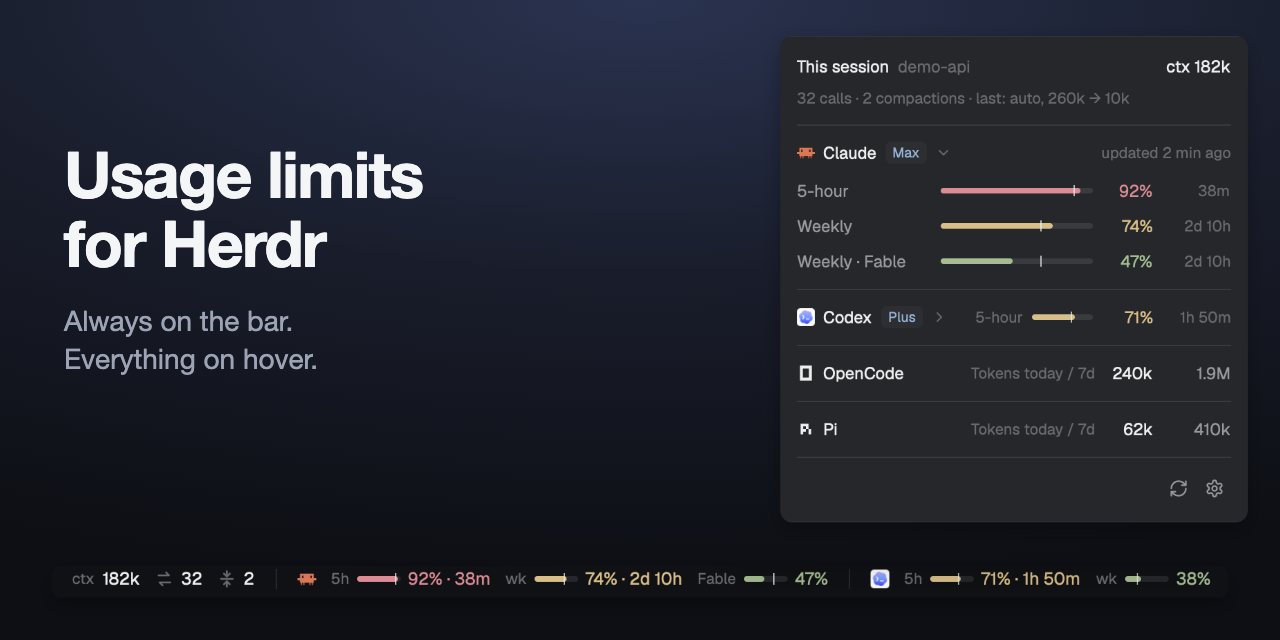
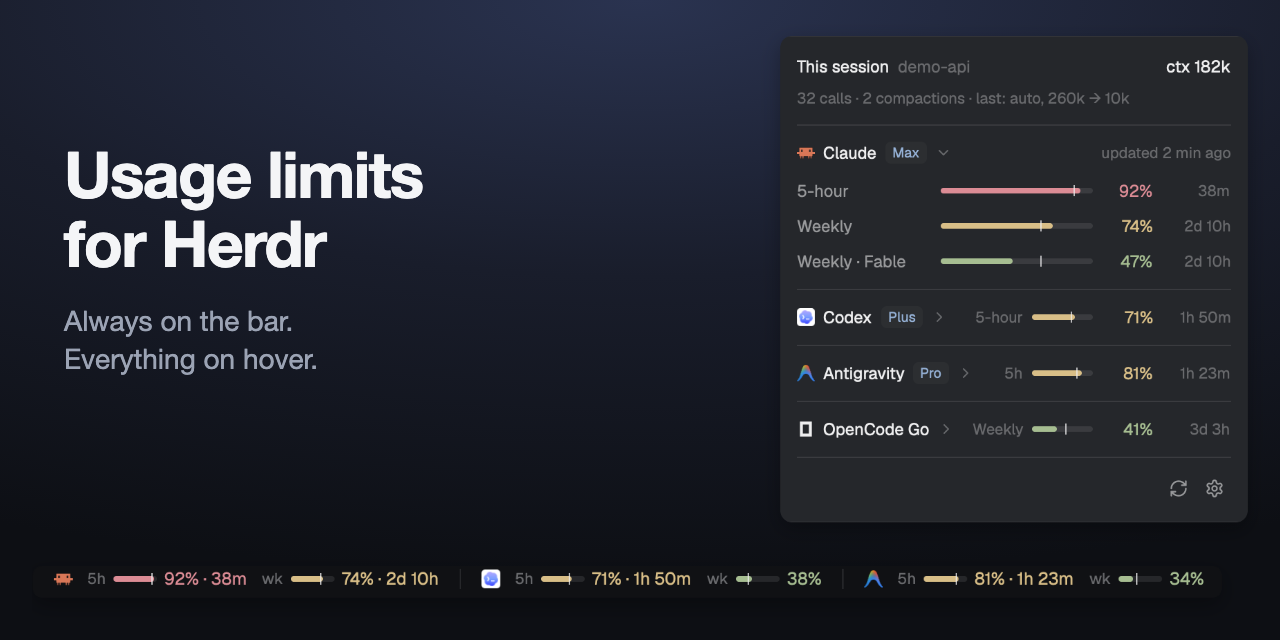
docs: images with Antigravity and OpenCode Go, and for several Claude accounts

diff --git a/README.md b/README.md
@@ -1,5 +1,5 @@
 <p align="center">
-  <img src="assets/hero.png" width="100%" alt="Always on the bar, everything on hover: the status bar with session numbers and Claude Code and Codex limits, and above it the hover panel with the session, Claude's limits in full, Codex folded to one line, and OpenCode and Pi with their tokens today and over 7 days">
+  <img src="assets/hero.png" width="100%" alt="Always on the bar, everything on hover: the status bar with Claude Code, Codex and Antigravity limits, and above it the hover panel with the session, Claude's limits in full, and Codex, Antigravity and OpenCode Go folded to one line each">
 </p>
 
 <h1 align="center">Usage limits for Herdr</h1>
@@ -61,7 +61,7 @@ From amber on, you also see the time left until the limit resets.
 ## Hover for everything
 
 <p align="center">
-  <img src="assets/card.png" width="440" alt="The hover panel: an OpenCode session with its model, context, calls and compactions, then Claude and Codex with their plan, last update and one line per limit with a bar, percent and time to reset, then OpenCode and Pi with their tokens today and over 7 days, with refresh and settings buttons">
+  <img src="assets/card.png" width="440" alt="The hover panel: an OpenCode session with its model, context, calls and compactions, then Claude, Codex and Antigravity with their plan, last update and one line per limit with a bar, percent and time to reset, OpenCode with its tokens today and over 7 days, OpenCode Go with its 5-hour, weekly and monthly limits, and Pi, with refresh and settings buttons">
 </p>
 
 Rest the pointer on the limits. The panel shows every limit and when it resets. Rest it on a
@@ -73,7 +73,7 @@ remembered. An arrow beside the name shows while the pointer is on it, and alway
 folded line or when the panel holds three providers or more.
 
 <p align="center">
-  <img src="assets/fold.png" width="440" alt="The same panel with Claude and Codex folded: each on one line with its tightest limit, 5-hour at 92% and 71%, then OpenCode and Pi">
+  <img src="assets/fold.png" width="440" alt="The same panel with Claude, Codex, Antigravity and OpenCode Go folded: each on one line with its tightest limit, then OpenCode and Pi">
 </p>
 
 OpenCode and Pi get one line each: `Tokens today / 7d`, with both numbers. They don't
@@ -108,7 +108,7 @@ For OpenCode and Pi the second line also names the agent and the model: `Pi · d
 ## Choose what the bar shows
 
 <p align="center">
-  <img src="assets/settings.png" width="440" alt="The settings side of the panel: a back arrow, Bar and Panel column headings, for each provider a Bar checkbox on the left and a Panel checkbox on the right, a Bar checkbox per limit, OpenCode and Pi off the bar and in the panel, Always show time to reset, Show bars, and This session with its Panel checkbox and Bar checkboxes for context, calls and compactions">
+  <img src="assets/settings.png" width="440" alt="The settings side of the panel: a back arrow, Bar and Panel column headings, for each provider a Bar checkbox on the left and a Panel checkbox on the right, a Bar checkbox per limit, Antigravity's two others limits off the bar, OpenCode and Pi off the bar and in the panel, Always show time to reset, Show bars, and This session with its Panel checkbox and Bar checkboxes for context, calls and compactions">
 </p>
 
 Click ⚙ in the panel. Each provider has two boxes: the left one, under **Bar**, is about
@@ -186,6 +186,14 @@ If you run Claude Code with more than one config folder (`CLAUDE_CONFIG_DIR`), l
 in the block's props. Each one is its own provider: its own group on the bar, its own
 section in the panel with its plan, its own row in the settings.
 
+<p align="center">
+  <img src="assets/accounts-bar.png" width="100%" alt="The status bar with two Claude accounts: the second named work, with a dot before its icon because the focused session runs on it">
+</p>
+
+<p align="center">
+  <img src="assets/accounts-card.png" width="440" alt="The hover panel with two Claude accounts, Claude on Max and Claude Work on Pro, the second marked with a dot and this session, then Codex, OpenCode and Pi">
+</p>
+
 ```json
 { "id": "usage-limits", "type": "block", "size": { "weight": 2.2 }, "min": 130,
   "content": { "mod": "usage-limits", "props": { "claudeAccounts": [
@@ -206,6 +214,14 @@ section in the panel with its plan, its own row in the settings.
 - Without `claudeAccounts`, nothing changes: one Claude, from Herdr's own environment.
 
 ### Antigravity (agy)
+
+<p align="center">
+  <img src="assets/agy-bar.png" width="100%" alt="The status bar with Claude, Codex and Antigravity: Gemini's 5-hour and weekly limits">
+</p>
+
+<p align="center">
+  <img src="assets/agy-card.png" width="440" alt="The hover panel with Antigravity on Pro: 5-hour and weekly for Gemini, and 5-hour and weekly for the other models">
+</p>
 
 agy gives its limits only to its status line command. To see them here, add the mod's
 hook to agy's settings, `~/.gemini/antigravity-cli/settings.json`:
